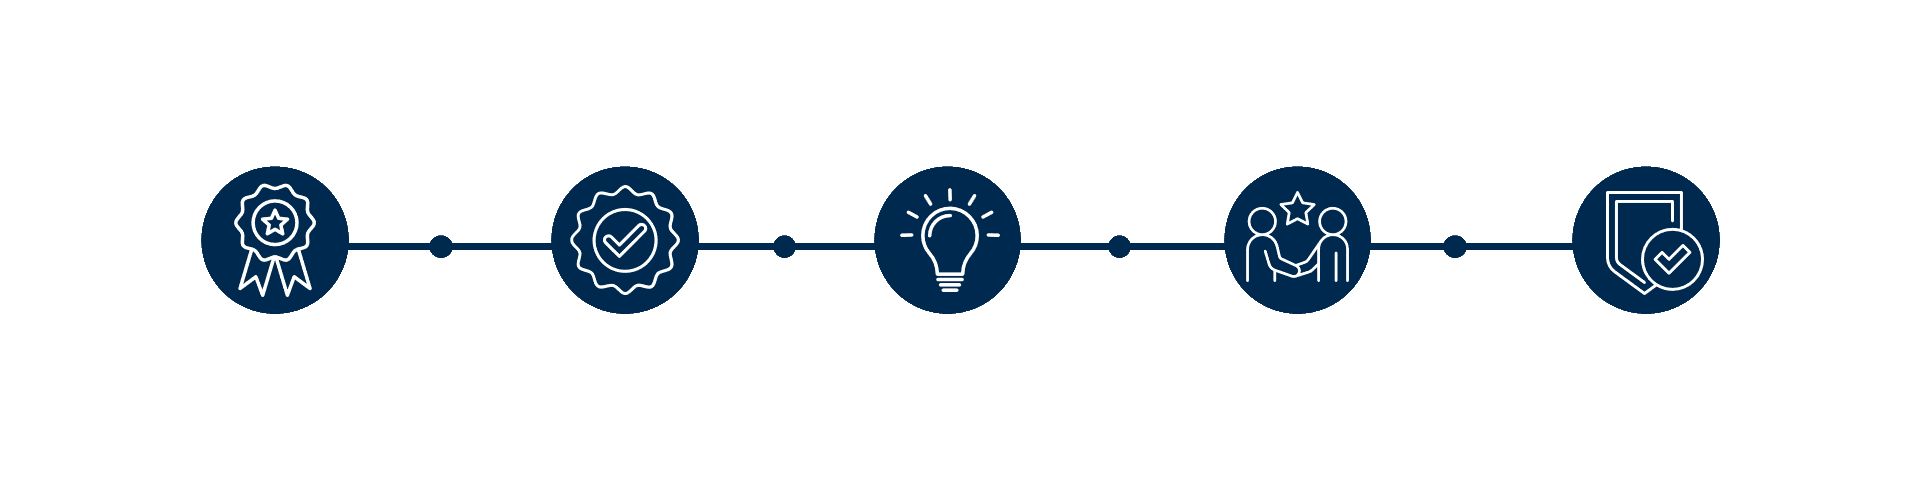
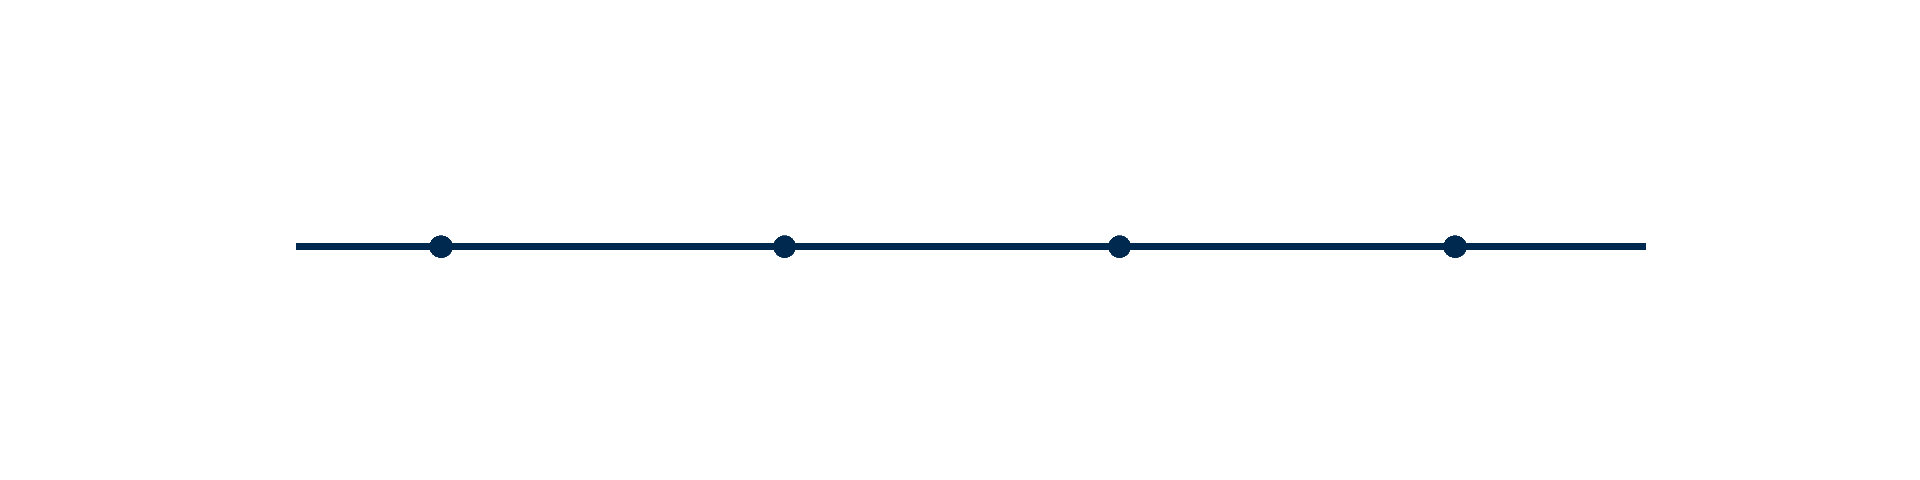
Actualizacion Nosotros.

diff --git a/styles/nosotros.css b/styles/nosotros.css
@@ -14,26 +14,98 @@ html, body {
     color: #00284e;
 }
 
-.full-width {
-    margin: 0;
-    padding: 0;
-    width: 100%;
-    position: relative;
-}
-
 .logos{
     width: 9vw;
     vertical-align: baseline;
 }
 
-.cinta{
-    width: 100%;
+.globos{
+    width: 10vw;
 }
 
 .fontsize{
     font-size: 4vw;
 }
 
+.fontsize2{
+    font-size: 1vw;
+}
+
+.fontsize3{
+    font-size: 3vw;
+}
+
 .content-overlay{
-    margin-top: 10%;
+    margin-top: 2vw;
+}
+
+.cinta {
+    width: 100%; /* Imagen de fondo ocupa el ancho completo */
+    height: auto;
+}
+
+/* Estilo general para los elementos que se superponen */
+.col-elemento {
+    width: 10vw; /* Tamaño de cada div con la imagen y el texto */
+}
+
+/* Posiciones personalizadas para cada elemento */
+.elemento-1 {
+    top: 31%;  /* Ajusta la posición vertical (20% desde arriba) */
+    left: 10%; /* Ajusta la posición horizontal (10% desde la izquierda) */
+}
+
+.elemento-2 {
+    top: 31%;  /* Ajusta la posición vertical (40% desde arriba) */
+    left: 27%; /* Ajusta la posición horizontal (30% desde la izquierda) */
+}
+
+.elemento-3 {
+    top: 31%;  /* Ajusta la posición vertical (60% desde arriba) */
+    left: 45%; /* Ajusta la posición horizontal (50% desde la izquierda) */
+}
+
+.elemento-4 {
+    top: 31%;  /* Ajusta la posición vertical (80% desde arriba) */
+    left: 62%; /* Ajusta la posición horizontal (70% desde la izquierda) */
+}
+
+.elemento-5 {
+    top: 37%;  /* Ajusta la posición vertical (90% desde arriba) */
+    left: 80%; /* Ajusta la posición horizontal (85% desde la izquierda) */
+}
+
+@media (max-width: 1000px) {
+    .fontsize2{
+        visibility: hidden;
+        display: none;
+    }
+    .globos{
+    width: 10vw;
+    }
+    /* Posiciones personalizadas para cada elemento */
+.elemento-1 {
+    top: 32%;  /* Ajusta la posición vertical (20% desde arriba) */
+    left: 10%; /* Ajusta la posición horizontal (10% desde la izquierda) */
+}
+
+.elemento-2 {
+    top: 32%;  /* Ajusta la posición vertical (40% desde arriba) */
+    left: 27%; /* Ajusta la posición horizontal (30% desde la izquierda) */
+}
+
+.elemento-3 {
+    top: 32%;  /* Ajusta la posición vertical (60% desde arriba) */
+    left: 45%; /* Ajusta la posición horizontal (50% desde la izquierda) */
+}
+
+.elemento-4 {
+    top: 32%;  /* Ajusta la posición vertical (80% desde arriba) */
+    left: 62%; /* Ajusta la posición horizontal (70% desde la izquierda) */
+}
+
+.elemento-5 {
+    top: 32%;  /* Ajusta la posición vertical (90% desde arriba) */
+    left: 79%; /* Ajusta la posición horizontal (85% desde la izquierda) */
+}
 }

diff --git a/Secciones/nosotros.php b/Secciones/nosotros.php
@@ -1,4 +1,9 @@
-<div class="container-fluid full-width">
+<br>
+<br>
+<br>
+<br>
+<br>
+<div class="container-fluid">
     <div class="row">
         <div class="col content-overlay d-flex justify-content-center align-items-center text-center">
             <p class="text-ossc-2 fontsize">Nosotros</p>
@@ -6,41 +11,56 @@
     </div>
     <div class="row">
         <div class="col d-flex justify-content-center text-center">
-            <h2 class="text-ossc-2">Somos un equipo <span class="text-ossc-1"><b>comprometido</b></span> con mejorar y
+            <p class="text-ossc-2 fontsize3">Somos un equipo <span class="text-ossc-1"><b>comprometido</b></span> con
+                mejorar y
                 optimizar la
                 administración de personal
                 en tu empresa. <br> Desde 2008, nos hemos dedicado a ofrecer <span
                     class="text-ossc-1"><b>soluciones</b></span> innovadoras y
                 fáciles de integrar, diseñadas para <br> simplificar y automatizar los procesos de nómina y recursos
                 humanos.
-            </h2>
+            </p>
         </div>
     </div>
-    <div class="row">
-        <div class="col d-flex justify-content-center align-items-center text-center">
-            <p class="text-ossc-2 fontsize">Somos <img src="/images/Logo_OSSC.png" alt="Logo" class="logos"></p>
+    <div class="row mt-0">
+        <div class="col d-flex justify-content-center text-center">
+            <h1 class="text-ossc-2 fontsize">Somos <img src="/images/Logo_OSSC.png" alt="Logo" class="logos"></h1>
         </div>
     </div>
-    <div class="row">
-        <div class="col d-flex justify-content-center align-items-center">
-            <img src="/images/cinta.png" alt="Ribbon" class="cinta">
+    <div class="row position-relative">
+        <div class="col position-relative">
+            <img src="/images/cinta.png" alt="cinta" class="cinta">
+        </div>
+
+        <!-- Primer Elemento -->
+        <div class="col-elemento position-absolute elemento-1 d-flex flex-column align-items-center text-center">
+            <img src="/images/c1.png" alt="c1" class="globos">
+            <p class="text-ossc-1 mt-0 fontsize2">Experiencia en desarrollo de Software</p>
+        </div>
+
+        <!-- Segundo Elemento -->
+        <div class="col-elemento position-absolute elemento-2 d-flex flex-column align-items-center text-center">
+            <img src="/images/c2.png" alt="c2" class="globos">
+            <p class="text-ossc-1 mt-0 fontsize2">Visión clara y objetiva</p>
+        </div>
+
+        <!-- Tercer Elemento -->
+        <div class="col-elemento position-absolute elemento-3 d-flex flex-column align-items-center text-center">
+            <img src="/images/c3.png" alt="c3" class="globos">
+            <p class="text-ossc-1 mt-0 fontsize2">Innovación y practicidad</p>
+        </div>
+
+        <!-- Cuarto Elemento -->
+        <div class="col-elemento position-absolute elemento-4 d-flex flex-column align-items-center text-center">
+            <img src="/images/c4.png" alt="c4" class="globos">
+            <p class="text-ossc-1 mt-0 fontsize2">Compromiso con nuestros clientes</p>
+        </div>
+
+        <!-- Quinto Elemento -->
+        <div class="col-elemento position-absolute elemento-5 d-flex flex-column align-items-center text-center">
+            <img src="/images/c5.png" alt="c5" class="globos">
+            <p class="text-ossc-1 mt-0 fontsize2">Orientación a resultados</p>
         </div>
     </div>
-    <div class="row mt-0 p-0">
-        <div class="col-2">
-            <p>Some Text</p>
-        </div>
-        <div class="col-2">
-            <p>Some Text</p>
-        </div>
-        <div class="col-2">
-            <p>Some Text</p>
-        </div>
-        <div class="col-2">
-            <p>Some Text</p>
-        </div>
-        <div class="col-2">
-            <p>Some Text</p>
-        </div>
-    </div>
+
 </div>
